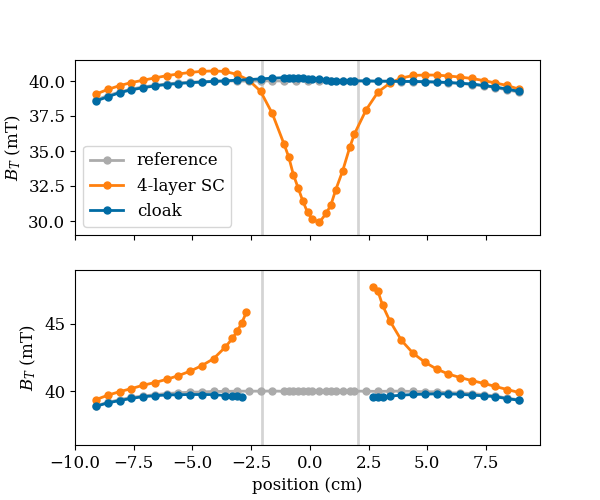
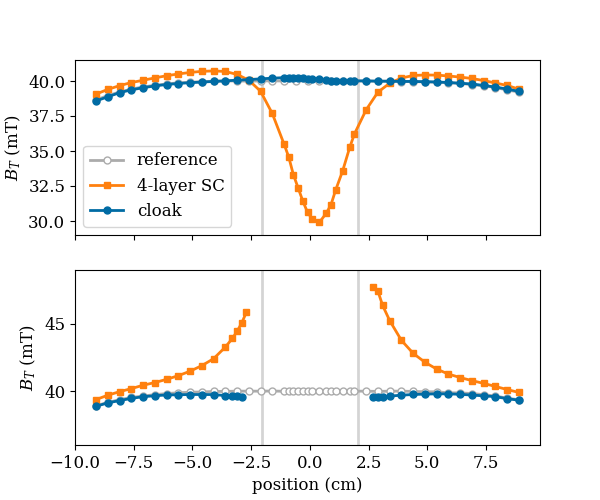
Update plotting style for grayscale printing compatibility

diff --git a/pycloak/cloaking_pub17/cloak_sbu_subplots_1d.py b/pycloak/cloaking_pub17/cloak_sbu_subplots_1d.py
@@ -10,6 +10,8 @@ from matplotlib import cm
 # set plotting style
 import mycolors
 mcol = mycolors.pub17
+mmark = mycolors.m_styles
+fcol = mycolors.f_colors
 plt.style.use("../style_pub17/cloak17_paper.mplstyle")
 
 xcenter=141
@@ -50,34 +52,34 @@ df_bvx_ref_2 = pd.read_csv('data-calib/DATA_Gaussmeter/DataFile_170213_204446.cs
 df_bvx_ref_3 = pd.read_csv('data-calib/DATA_Gaussmeter/DataFile_170213_205815.csv')
 
 #axs[1].set_title("B vs X scans, 4 layer SC, fM = 0.618")
-axs[1].plot( (df_bvx_ref_1['pos']-xcenter)/10, -1*df_bvx_ref_1['B1'], marker='o', color=mcol[2], label='across center') 
+axs[1].plot( (df_bvx_ref_1['pos']-xcenter)/10, -1*df_bvx_ref_1['B1'], marker=mmark[2], color=mcol[2], markerfacecolor=fcol[2], label='across center') 
 
 select_bvx_left = (df_bvx_sc4l_1['pos']-xcenter) < -10
 select_bvx_right = (df_bvx_sc4l_1['pos']-xcenter) > 10
 axs[1].plot( (df_bvx_sc4l_1.loc[select_bvx_left,'pos']-xcenter)/10,
              -1*df_bvx_sc4l_1.loc[select_bvx_left,'B1'],
-             marker='o', color=mcol[1], label='across center') 
+             marker=mmark[1],  color=mcol[1], markerfacecolor=fcol[1], label='across center') 
 axs[1].plot( (df_bvx_sc4l_1.loc[select_bvx_right,'pos']-xcenter)/10,
              -1*df_bvx_sc4l_1.loc[select_bvx_right,'B1'],
-             marker='o', color=mcol[1], label='across center') 
+             marker=mmark[1], color=mcol[1], markerfacecolor=fcol[1], label='across center') 
 
 select_bvx_left = (df_bvx_cloak_1['pos']-xcenter) < -10
 select_bvx_right = (df_bvx_cloak_1['pos']-xcenter) > 10
 axs[1].plot( (df_bvx_cloak_1.loc[select_bvx_left,'pos']-xcenter)/10,
              -1*df_bvx_cloak_1.loc[select_bvx_left,'B1'],
-             marker='o', color=mcol[0], label='across center') 
+             marker=mmark[0], color=mcol[0], markerfacecolor=fcol[0], label='across center') 
 axs[1].plot( (df_bvx_cloak_1.loc[select_bvx_right,'pos']-xcenter)/10,
              -1*df_bvx_cloak_1.loc[select_bvx_right,'B1'],
-             marker='o', color=mcol[0], label='across center') 
+             marker=mmark[0], color=mcol[0], markerfacecolor=fcol[0], label='across center') 
 
 axs[1].set_ylabel("$B_T$ (mT)")
 axs[1].set_ylim((36,49))
 #axs[1].text(175,38.2,'across',fontsize=12)
 axs[1].set_xlabel("position (cm)")
 
-axs[0].plot( (df_bvx_ref_2['pos']-xcenter)/10, -1*df_bvx_ref_2['B1'], marker='o', color=mcol[2], label='reference') 
-axs[0].plot( (df_bvx_sc4l_2['pos']-xcenter)/10, -1*df_bvx_sc4l_2['B1'], marker='o', color=mcol[1], label='4-layer SC') 
-axs[0].plot( (df_bvx_cloak_2['pos']-xcenter)/10, -1*df_bvx_cloak_2['B1'], marker='o', color=mcol[0], label='cloak') 
+axs[0].plot( (df_bvx_ref_2['pos']-xcenter)/10, -1*df_bvx_ref_2['B1'], marker=mmark[2], color=mcol[2], markerfacecolor=fcol[2], label='reference') 
+axs[0].plot( (df_bvx_sc4l_2['pos']-xcenter)/10, -1*df_bvx_sc4l_2['B1'], marker=mmark[1], color=mcol[1], markerfacecolor=fcol[1], label='4-layer SC') 
+axs[0].plot( (df_bvx_cloak_2['pos']-xcenter)/10, -1*df_bvx_cloak_2['B1'], marker=mmark[0], color=mcol[0], markerfacecolor=fcol[0], label='cloak') 
 axs[0].set_ylabel("$B_T$ (mT)")
 axs[0].set_ylim((29,41.5))
 #axs[0].text(175,38.2,'1 mm away',fontsize=12)
@@ -136,17 +138,17 @@ df_bvz_ref_3 = pd.read_csv('data-calib/DATA_Gaussmeter/DataFile_170214_203513.cs
 ##axs[0].set_ylim((38,40.5))
 #axs[0].text(-50,20,'x,y center')
 
-axs[0].plot( (df_bvz_ref_2['pos']-zcenter)/10, -1*df_bvz_ref_2['B1'], marker='o', color=mcol[2], label='reference') 
-axs[0].plot( (df_bvz_sc4l_2['pos']-zcenter)/10, -1*df_bvz_sc4l_2['B1'], marker='o', color=mcol[1], label='4-layer SC') 
-axs[0].plot( (df_bvz_cloak_2['pos']-zcenter)/10, -1*df_bvz_cloak_2['B1'], marker='o', color=mcol[0], label='cloak') 
+axs[0].plot( (df_bvz_ref_2['pos']-zcenter)/10, -1*df_bvz_ref_2['B1'], marker=mmark[2], color=mcol[2], markerfacecolor=fcol[2], label='reference') 
+axs[0].plot( (df_bvz_sc4l_2['pos']-zcenter)/10, -1*df_bvz_sc4l_2['B1'], marker=mmark[1], color=mcol[1], markerfacecolor=fcol[1], label='4-layer SC') 
+axs[0].plot( (df_bvz_cloak_2['pos']-zcenter)/10, -1*df_bvz_cloak_2['B1'], marker=mmark[0], color=mcol[0], markerfacecolor=fcol[0], label='cloak') 
 axs[0].set_ylabel("$B_T$ (mT)")
 axs[0].set_ylim((29,41.5))
 #axs[0].text(-50,42,'y center',fontsize=12)
 axs[0].legend(loc = 'lower left')
 
-axs[1].plot( (df_bvz_ref_3['pos']-zcenter)/10, -1*df_bvz_ref_3['B1'], marker='o', color=mcol[2], label='across') 
-axs[1].plot( (df_bvz_sc4l_3['pos']-zcenter)/10, -1*df_bvz_sc4l_3['B1'], marker='o', color=mcol[1], label='1 cm away') 
-axs[1].plot( (df_bvz_cloak_3['pos']-zcenter)/10, -1*df_bvz_cloak_3['B1'], marker='o', color=mcol[0], label='across') 
+axs[1].plot( (df_bvz_ref_3['pos']-zcenter)/10, -1*df_bvz_ref_3['B1'], marker=mmark[2], color=mcol[2], markerfacecolor=fcol[2], label='across') 
+axs[1].plot( (df_bvz_sc4l_3['pos']-zcenter)/10, -1*df_bvz_sc4l_3['B1'], marker=mmark[1], color=mcol[1], markerfacecolor=fcol[1], label='1 cm away') 
+axs[1].plot( (df_bvz_cloak_3['pos']-zcenter)/10, -1*df_bvz_cloak_3['B1'], marker=mmark[0], color=mcol[0], markerfacecolor=fcol[0], label='across') 
 axs[1].set_ylabel("$B_T$ (mT)")
 axs[1].set_xlabel("position (cm)")
 axs[1].set_ylim((36,49))

diff --git a/pycloak/cloaking_pub17/cloak_sbu_1d.py b/pycloak/cloaking_pub17/cloak_sbu_1d.py
@@ -10,6 +10,8 @@ from matplotlib import cm
 # set plotting style
 import mycolors
 mcol = mycolors.pub17
+mmark = mycolors.m_styles
+fcol = mycolors.f_colors
 plt.style.use("../style_pub17/cloak17_paper.mplstyle")
 
 def comparescans( figname, figtitle, datafiles, datanames, legend=True ):
@@ -48,7 +50,8 @@ def comparescans( figname, figtitle, datafiles, datanames, legend=True ):
     for i, (dfile, dname) in enumerate( zip( datafiles, datanames ) ):
         print( dfile, dname )
         data = pd.read_csv(dfile, comment='#')
-        ax.plot( (data['pos']-xcenter)/10, abs(data['B1']), marker='.', color=mcol[2-i], label=dname) #color='b'
+
+        ax.plot( (data['pos']-xcenter)/10, abs(data['B1']), marker=mmark[2-i], markerfacecolor=fcol[2-i], color=mcol[2-i], label=dname) #color='b'
 
         # fill areas between curves and reference value
         #Bnominal = abs(data['B2']).mean()

diff --git a/pycloak/style_pub17/mycolors.py b/pycloak/style_pub17/mycolors.py
@@ -23,3 +23,15 @@ cb_colors.append(cb_light_orange)
 cb_colors.append(cb_gray_4)
 
 pub17 = cb_colors
+
+#Define marker styles
+m_styles=[]
+m_styles.append('o')
+m_styles.append('s')
+m_styles.append('o')
+
+##Define facecolor styles
+f_colors=[]
+f_colors.append(cb_colors[0])
+f_colors.append(cb_colors[1])
+f_colors.append('white')
